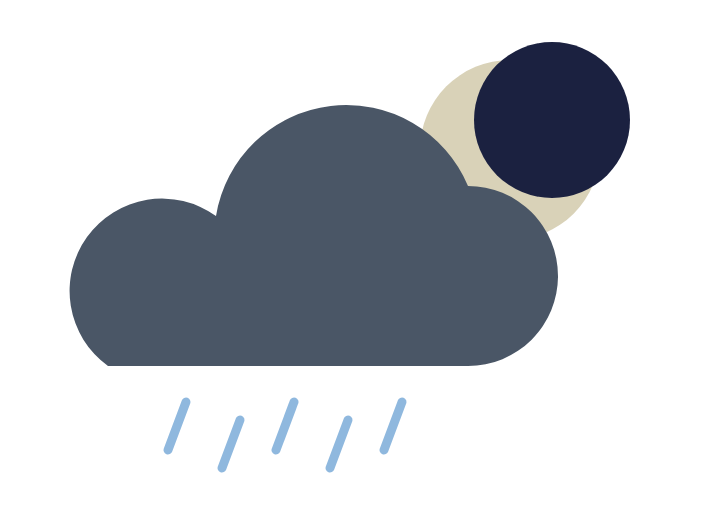
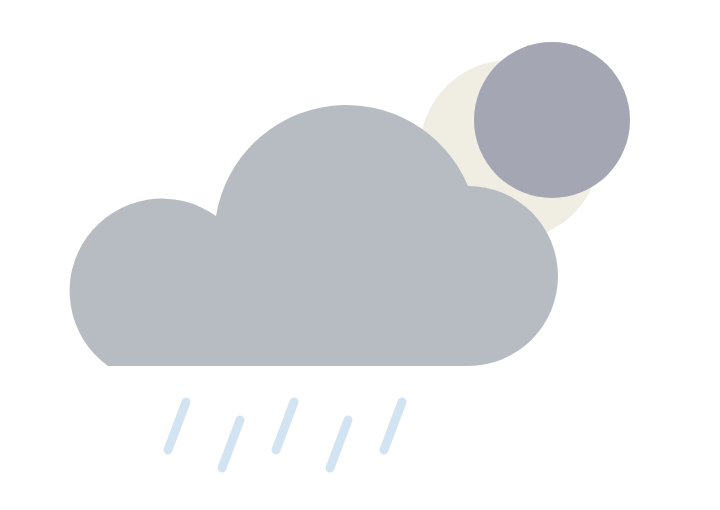
Widget: weather art centered and faded to 40%, information layered on top
Claude-Session: https://claude.ai/code/session_01R2Fb1hoUwZG2x4KBmrLHeg

diff --git a/widget/weather-widget.js b/widget/weather-widget.js
@@ -138,7 +138,7 @@ function stateOf(c, day) {
   if (isOvercast(c) && day) return "overcast"
   return day ? "sun" : "night"
 }
-// The app's weather art (static frame, PNG in widget/art/) drawn large as the widget background
+// The app's weather art (static frame, PNG in widget/art/, alpha already at 40%) drawn large in the middle of the widget
 const isFog = c => c === 45 || c === 48
 function artKey(c, day, light) {
   if (!day) return isSnow(c) ? "night-snow" : isRain(c) ? "night-rain" : isFog(c) ? "night-fog" : c >= 2 ? "night-cloudy" : "night-clear"
@@ -181,7 +181,7 @@ async function getData() {
   }
 }
 
-const ART_VERSION = 1   // bump when widget/art/*.png change
+const ART_VERSION = 2   // bump when widget/art/*.png change (2: faded to 40% for the centered layout)
 async function loadArt(key) {
   const dir = fm.joinPath(fm.documentsDirectory(), "weather-app-art")
   if (!fm.fileExists(dir)) fm.createDirectory(dir)
@@ -303,9 +303,9 @@ function summaryBlock(parent, s, size, maxLines, width, barColor, fg) {
   return t
 }
 
-// Background: screen color + the weather art, large and bleeding off the edges (same placement as the approved mock)
+// Background: screen color + the weather art, centered and faded so the information reads on top of it (mock C)
 const SIZES = { small: [158, 158], medium: [338, 158], large: [338, 354] }
-const ART_PLACE = { small: [44, -34, 200], medium: [160, -52, 270], large: [-21, -92, 380] }   // x, y, width in points
+const ART_PLACE = { small: [190, -10], medium: [250, -12], large: [360, -40] }   // width, vertical shift in points
 function background(family, bg, art) {
   const [W, H] = SIZES[family]
   const ctx = new DrawContext()
@@ -315,8 +315,8 @@ function background(family, bg, art) {
   ctx.setFillColor(new Color(bg))
   ctx.fillRect(new Rect(0, 0, W, H))
   if (art) {
-    const [x, y, aw] = ART_PLACE[family]
-    ctx.drawImageInRect(art, new Rect(x, y, aw, aw * 170 / 240))
+    const [aw, dy] = ART_PLACE[family], ah = aw * 170 / 240
+    ctx.drawImageInRect(art, new Rect((W - aw) / 2, (H - ah) / 2 + dy, aw, ah))
   }
   return ctx.getImage()
 }
@@ -377,7 +377,7 @@ async function build(d, family) {
     return w
   }
 
-  // Home screen: the art is the background, the information sits on top (bottom left)
+  // Home screen: the art fills the middle, the information sits on top of it
   const today = summaryText(d, idx, light)
   const barColor = readableOn(BAND_COLOR[today.band[1]], bg, 1.5)
   w.backgroundColor = new Color(bg)
@@ -395,7 +395,7 @@ async function build(d, family) {
   }
 
   const row = w.addStack(); row.bottomAlignContent()
-  bigTemp(row, temp, family === "large" ? 84 : 64, fg)
+  bigTemp(row, temp, family === "large" ? 96 : 64, fg)
   row.addSpacer(8)
   const side = row.addStack(); side.layoutVertically()
   text(side, label(c.weather_code, day), Font.boldSystemFont(family === "large" ? 20 : 13), fg)
@@ -404,7 +404,7 @@ async function build(d, family) {
 
   if (family === "medium") {
     w.addSpacer(6)
-    summaryBlock(w, today.text, 10.5, 3, 176, barColor, fg)
+    summaryBlock(w, today.text, 10.5, 2, 306, barColor, fg)
     return w
   }
 
@@ -412,7 +412,7 @@ async function build(d, family) {
   w.addSpacer(8)
   summaryBlock(w, today.text, 12.5, 3, 306, barColor, fg)
   w.addSpacer(10)
-  bars(w, d, idx, new Color(st.graph), 28, 4)
+  bars(w, d, idx, new Color(st.graph), 24, 4)
   return w
 }
 

diff --git a/CLAUDE.md b/CLAUDE.md
@@ -6,7 +6,7 @@
 
 - GitHub Pages로 배포됨: https://jinex001.github.io/Weather-App/ · `main`에 push하면 1~2분 뒤 반영.
 - `index.html`: 웹앱. 실시간 Open-Meteo, 5가지 색 상태(낮 4 + 밤 1), 움직이는 날씨 그림, 체감온도 9단계 블록(단계 색 둥근 배지 + 흰 사람 아이콘), 24시간·6일 예보, **Today's Look**(옷차림 시트 + 질문 화면), 기기 언어 자동(ko/en/de), 15분 새로고침, 오프라인 캐시. 도시 이름을 누르면 GPS ↔ 베를린 전환(b58).
-- `widget/weather-widget.js`: Scriptable 위젯(small/medium/large + 잠금화면 3종). 색 규칙은 앱과 같음(흐린 낮 햇빛 3단계 포함). 홈 화면 위젯은 앱 날씨 그림(`widget/art/*.png`, 멈춘 장면)을 배경에 크게 깔고 기온·상태·오늘 요약(앱과 같은 문장 + 체감 단계 색 막대)을 위에 올림. 체감 사람 아이콘·Today's Look은 없음.
+- `widget/weather-widget.js`: Scriptable 위젯(small/medium/large + 잠금화면 3종). 색 규칙은 앱과 같음(흐린 낮 햇빛 3단계 포함). 홈 화면 위젯은 앱 날씨 그림(`widget/art/*.png`, 멈춘 장면, 40% 흐리게)을 가운데에 크게 깔고 기온·상태·오늘 요약(앱과 같은 문장 + 체감 단계 색 막대)을 위에 올림. 체감 사람 아이콘·Today's Look은 없음.
 - 아이폰 확인: 헤드 탭으로 Today's Look 열림을 사용자가 확인(b15). 나머지는 가짜 데이터 렌더링으로 확인.
 - 상태 줄 끝 빌드 표시(`BUILD`, index.html)는 앱 코드를 바꿔 배포할 때마다 올릴 것. 폰이 예전 페이지를 붙잡고 있는지 확인하는 용도. b21부터 앱이 새로고침할 때 배포된 페이지의 `BUILD`를 확인해서 다르면 스스로 다시 불러옴(그래서 `var BUILD = "bNN"` 형식을 바꾸지 말 것).
 - 디자인 값의 기준은 `design/tokens.json`(v3)과 `design/design-system.md`. 바꾸면 이 두 파일도 같이 고칠 것.
@@ -65,6 +65,7 @@
 - b61: 검은 구분선(24시간 예보 위·6일 예보 위) 모두 없앰, 6일(요일) 예보 없앰, 24시간 예보의 "지금" 점을 "지금" 글자 위로(사용자 요청).
 - b62: 흐린 낮(흐림·안개) 배경을 실제 햇빛 밝기로 3단계(사용자 요청, Gemini 팔레트). Open-Meteo current `shortwave_radiation`(W/m², DWD 관측 일사량 solar_10/30/60이 있으면 실측): ≥200 밝은 흐림 `#A3A091` · 60–200 보통 `#959B9E` · <60 어두운 `#948B82`. 값이 없으면 예전 `#A9B1B9`. 흐린 밤은 그대로 `#1B2140`. 단계마다 뒤 구름·작은 회색 구름 색 조정(CSS `--oc-back`/`--oc-drift`, `body[data-light]`). 상태 줄에 "· N W/m²" 표시(기준값 맞추는 동안). 위젯은 아직 `#A9B1B9`. 기준값 60/200은 실제 베를린 값으로 확인 못 함.
 - 위젯(2026-10-19, 앱 빌드 변화 없음): 앱 날씨 그림을 위젯 배경으로(사용자: "애니메이션 아이콘이 바탕화면, 그 위에 정보"). 앱에서 멈춘 장면을 PNG 18장으로 뽑아 `widget/art/`(흐림·안개는 햇빛 3단계별), 위젯이 GitHub Pages에서 한 번 받아 저장(`ART_VERSION`). DrawContext로 배경색 + 그림을 크기별 위치에 그려 `backgroundImage`. 헤더 SF Symbol 없앰. 오늘 요약(앱 summaryText 이식, DECK·BANDS·BAND_COLOR·readableOn 복사) 추가: small 첫 문장, medium·large 3줄. 흐린 낮 3단계 색. 데이터에 wind_speed_10m·shortwave_radiation·hourly temperature_2m/apparent_temperature 추가. Scriptable 실기기 확인 전(가짜 API로 로직만 확인).
+- 위젯 시안 C(2026-10-19, 사용자 선택): 그림을 오른쪽 위 → 가운데로, 알파 40%로 흐리게(PNG에 미리 적용, `ART_VERSION` 2), 정보는 그 위 레이어. medium 요약 2줄 전체 폭, large 기온 96·막대 24px.
 - b29: Today's Look 글라스를 단계 색 대신 **흰색**(rgba(255,255,255,.6)) + 뒤 화면 블러로, 글자는 항상 #141414(사용자: "하얀색 기본 글라스 UI"). 상태 표시줄 색은 메인 화면 색 유지.
 
 사용자: 베를린 거주, 아이폰 사용. 기기 언어는 독일어·한국어·영어 중 하나.

diff --git a/design/design-system.md b/design/design-system.md
@@ -228,8 +228,8 @@ Poppins는 폭이 넓어서 **기본 자간 -.02em**(body). 작은 대문자 라
 ## 10. 위젯 (Scriptable)
 
 - 앱과 같은 색 규칙(`STATES`): 낮엔 날씨별, 밤엔 모두 `night`. 흐린 낮은 앱처럼 햇빛 밝기 3단계(`shortwave_radiation`). 홈 화면 small/medium/large, 잠금화면 원형·사각·한 줄.
-- **날씨 그림이 바탕(2026-10-19)**: 앱의 큰 날씨 그림을 멈춘 한 장면(PNG, `widget/art/<키>.png`, 240×170 비율, 3배 해상도)으로 위젯 배경에 크게 깔고, 가장자리에서 잘리게 둡니다. 정보는 그림이 비는 왼쪽 아래. 위치(포인트, 기준 크기 158/338×158/338×354): small x 44 · y -34 · 폭 200, medium x 160 · y -52 · 폭 270, large x -21 · y -92 · 폭 380. 화면을 가로지르는 작은 구름(`art-drift`)은 빼고(구름 조금 낮 `sun-mostly`만 그대로). 그림 키: sun-clear/mostly/cloudy, overcast(-bright/-normal/-dim), fog(-…), rain, snow, night-clear/cloudy/fog/rain/snow. 처음 한 번 받아 Scriptable 문서 폴더에 저장(`ART_VERSION`을 올리면 다시 받음). 그림을 바꾸면 PNG도 다시 뽑을 것.
-- 배치: small = 도시 / 큰 기온 56 / 상태 / 요약 첫 문장. medium = 도시 / 큰 기온 64 + 상태·최고최저 / 요약 3줄. large = 도시 / 큰 기온 84 + 상태·최고최저·체감 / 요약 3줄 / 12시간 막대 28px.
+- **날씨 그림이 가운데 바탕(2026-10-19, 시안 C)**: 앱의 큰 날씨 그림을 멈춘 한 장면(PNG, `widget/art/<키>.png`, 240×170 비율, 3배 해상도, **알파 40%로 미리 흐리게**)으로 위젯 가운데에 크게 깔고, 정보는 그 위 레이어로 올립니다(흐리게 해서 어느 날씨든 글자가 읽힘, 테두리·그림자 없음). 크기(포인트, 기준 158/338×158/338×354): small 폭 190 · 위로 10, medium 폭 250 · 위로 12, large 폭 360 · 위로 40, 가로 가운데. 화면을 가로지르는 작은 구름(`art-drift`)은 빼고(구름 조금 낮 `sun-mostly`만 그대로). 그림 키: sun-clear/mostly/cloudy, overcast(-bright/-normal/-dim), fog(-…), rain, snow, night-clear/cloudy/fog/rain/snow. 처음 한 번 받아 Scriptable 문서 폴더에 저장(`ART_VERSION` 2, 올리면 다시 받음). 앱 그림을 바꾸면 PNG도 다시 뽑아 알파 40%로.
+- 배치: small = 도시 / 큰 기온 56 / 상태 / 요약 첫 문장. medium = 도시 / 큰 기온 64 + 상태·최고최저 / 요약 2줄. large = 도시 / 큰 기온 96 + 상태·최고최저·체감 / 요약 3줄 / 12시간 막대 24px.
 - **오늘 요약**: 앱 `summaryText`와 같은 문장(체감 단계, 상태·최고최저, 비·눈, 우산, 기온 하강, 바람, 옷차림 한 줄, 감기). 왼쪽 4px 막대는 체감 단계 색(배경과 1.5:1 미만일 때만 조정). 위젯은 DWD 실측 없이 Open-Meteo만.
 - 숫자 `AvenirNextCondensed-Heavy`, °는 앱과 같은 규칙(80% 크기, 위로 맞춤). 문구는 시스템 글꼴.
 - 잠금화면은 흑백이라 SF Symbols 아이콘 그대로.
